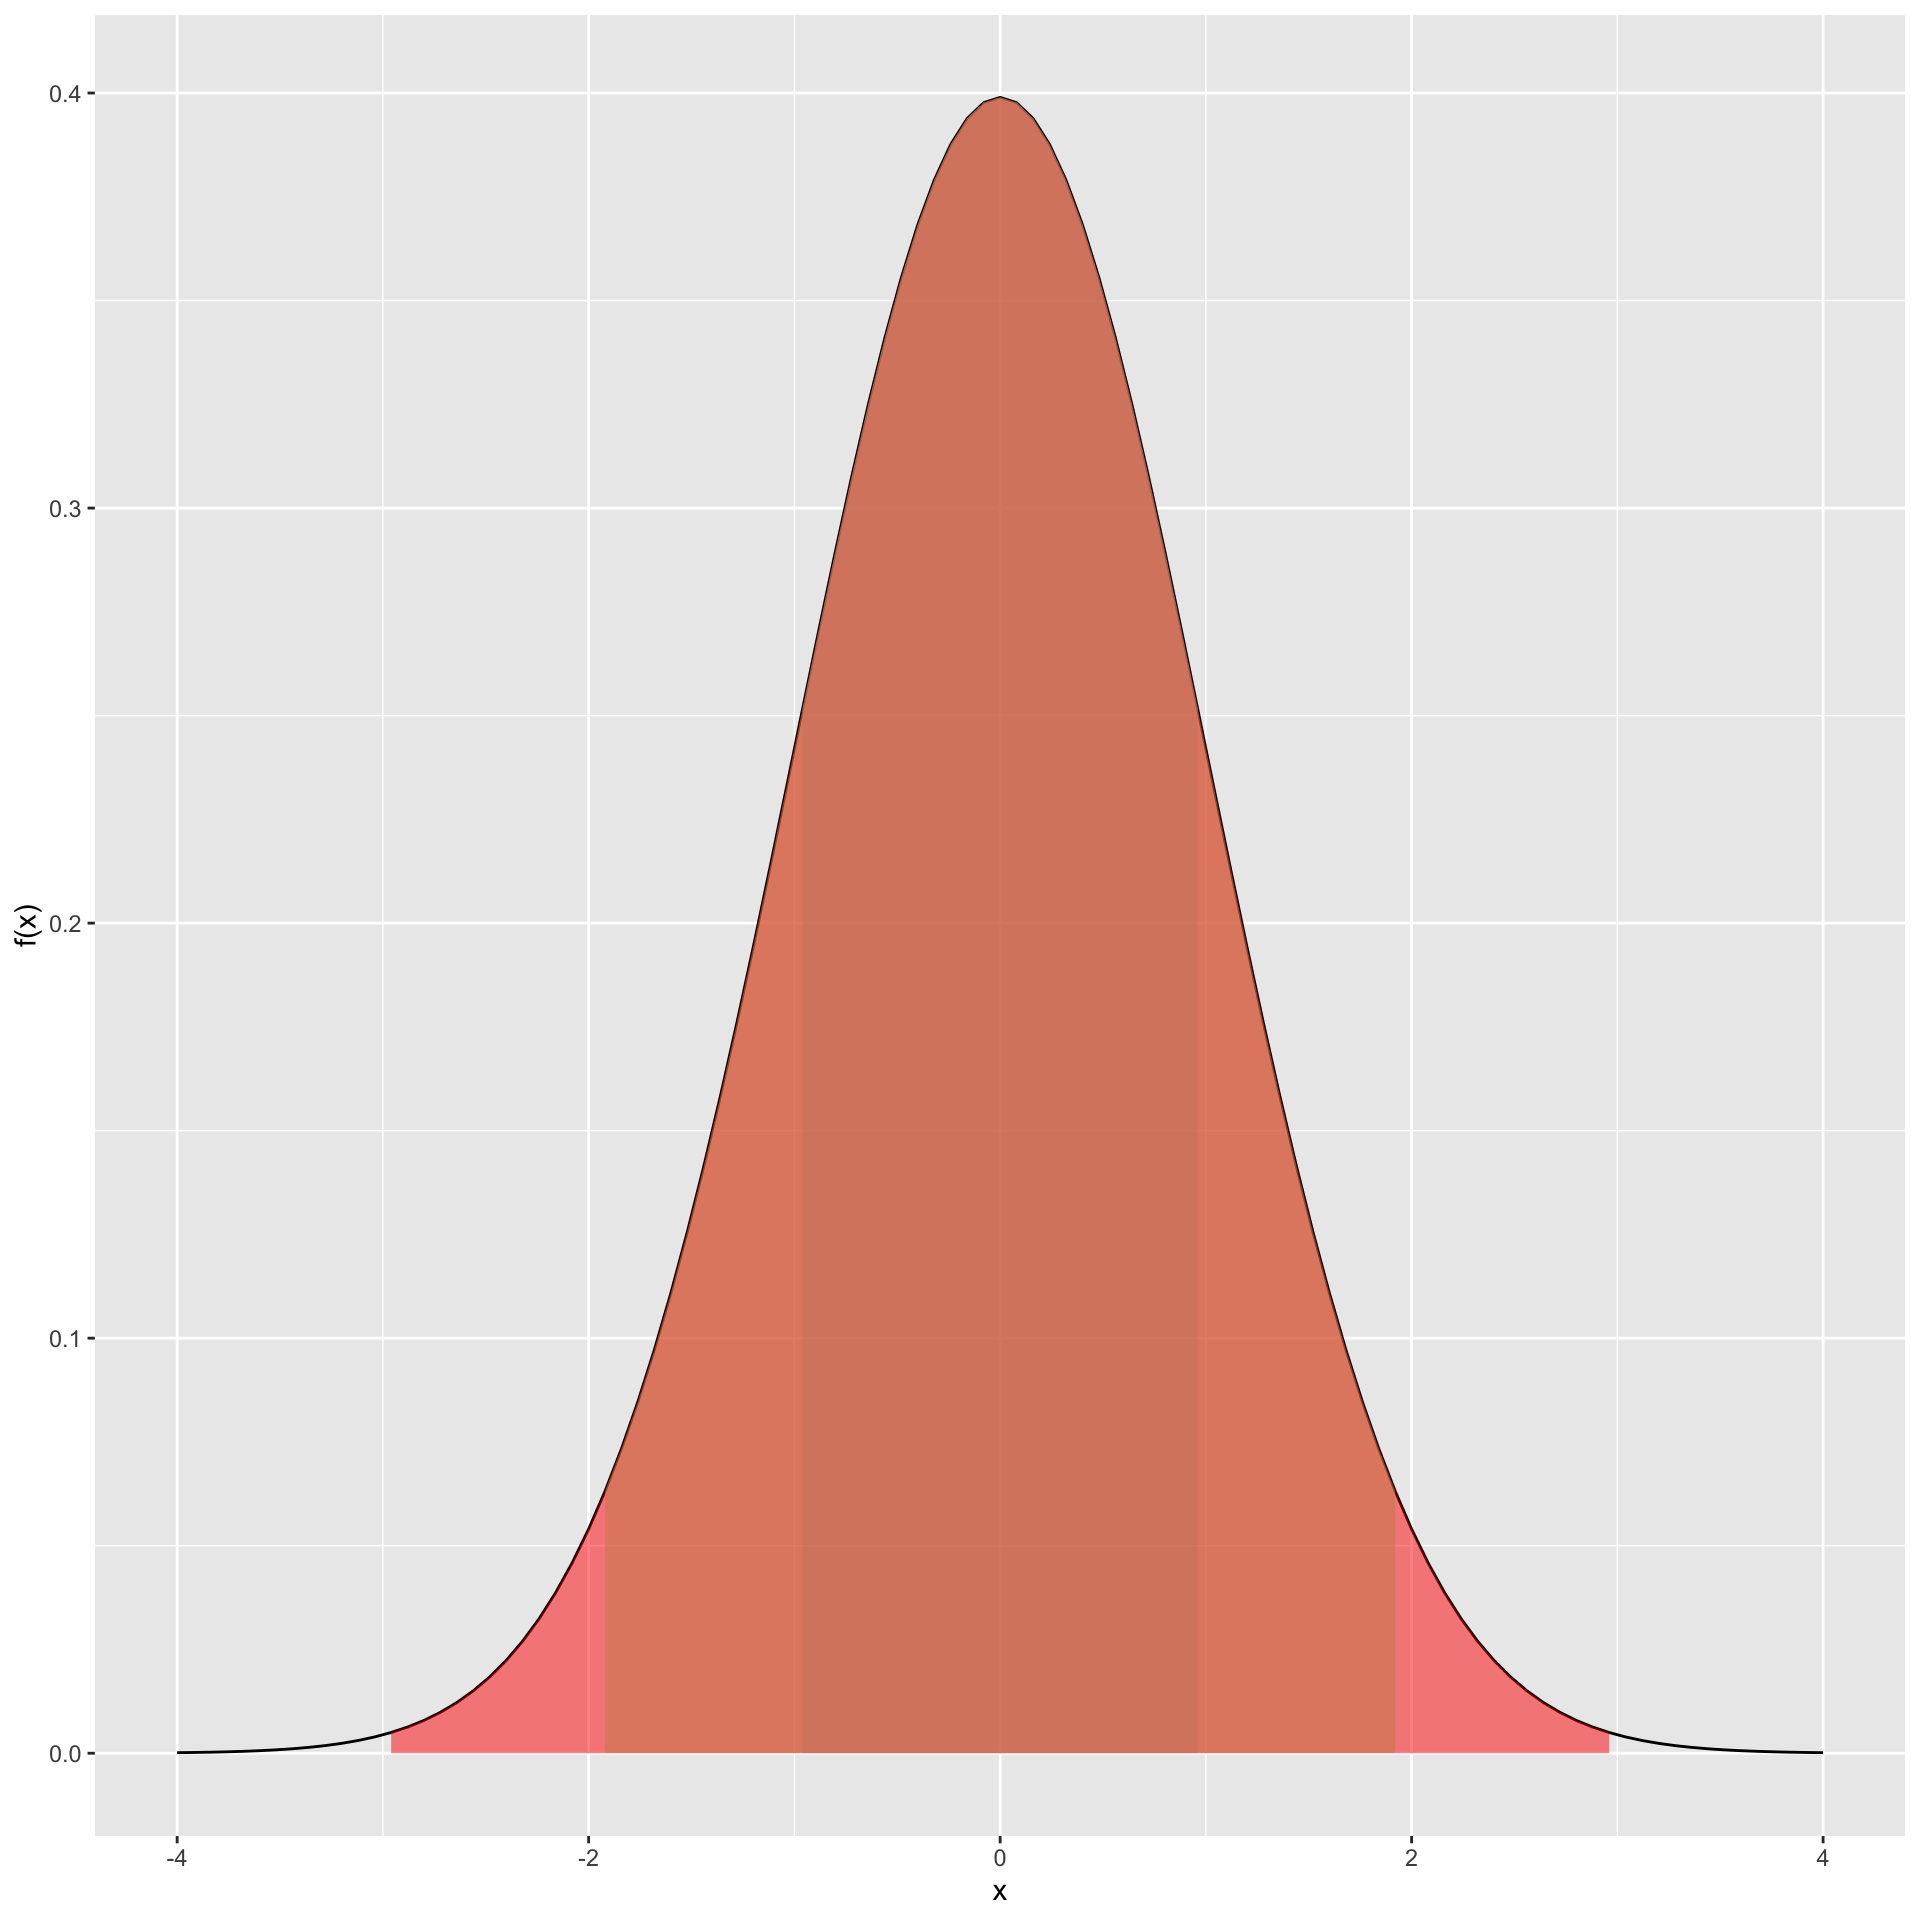
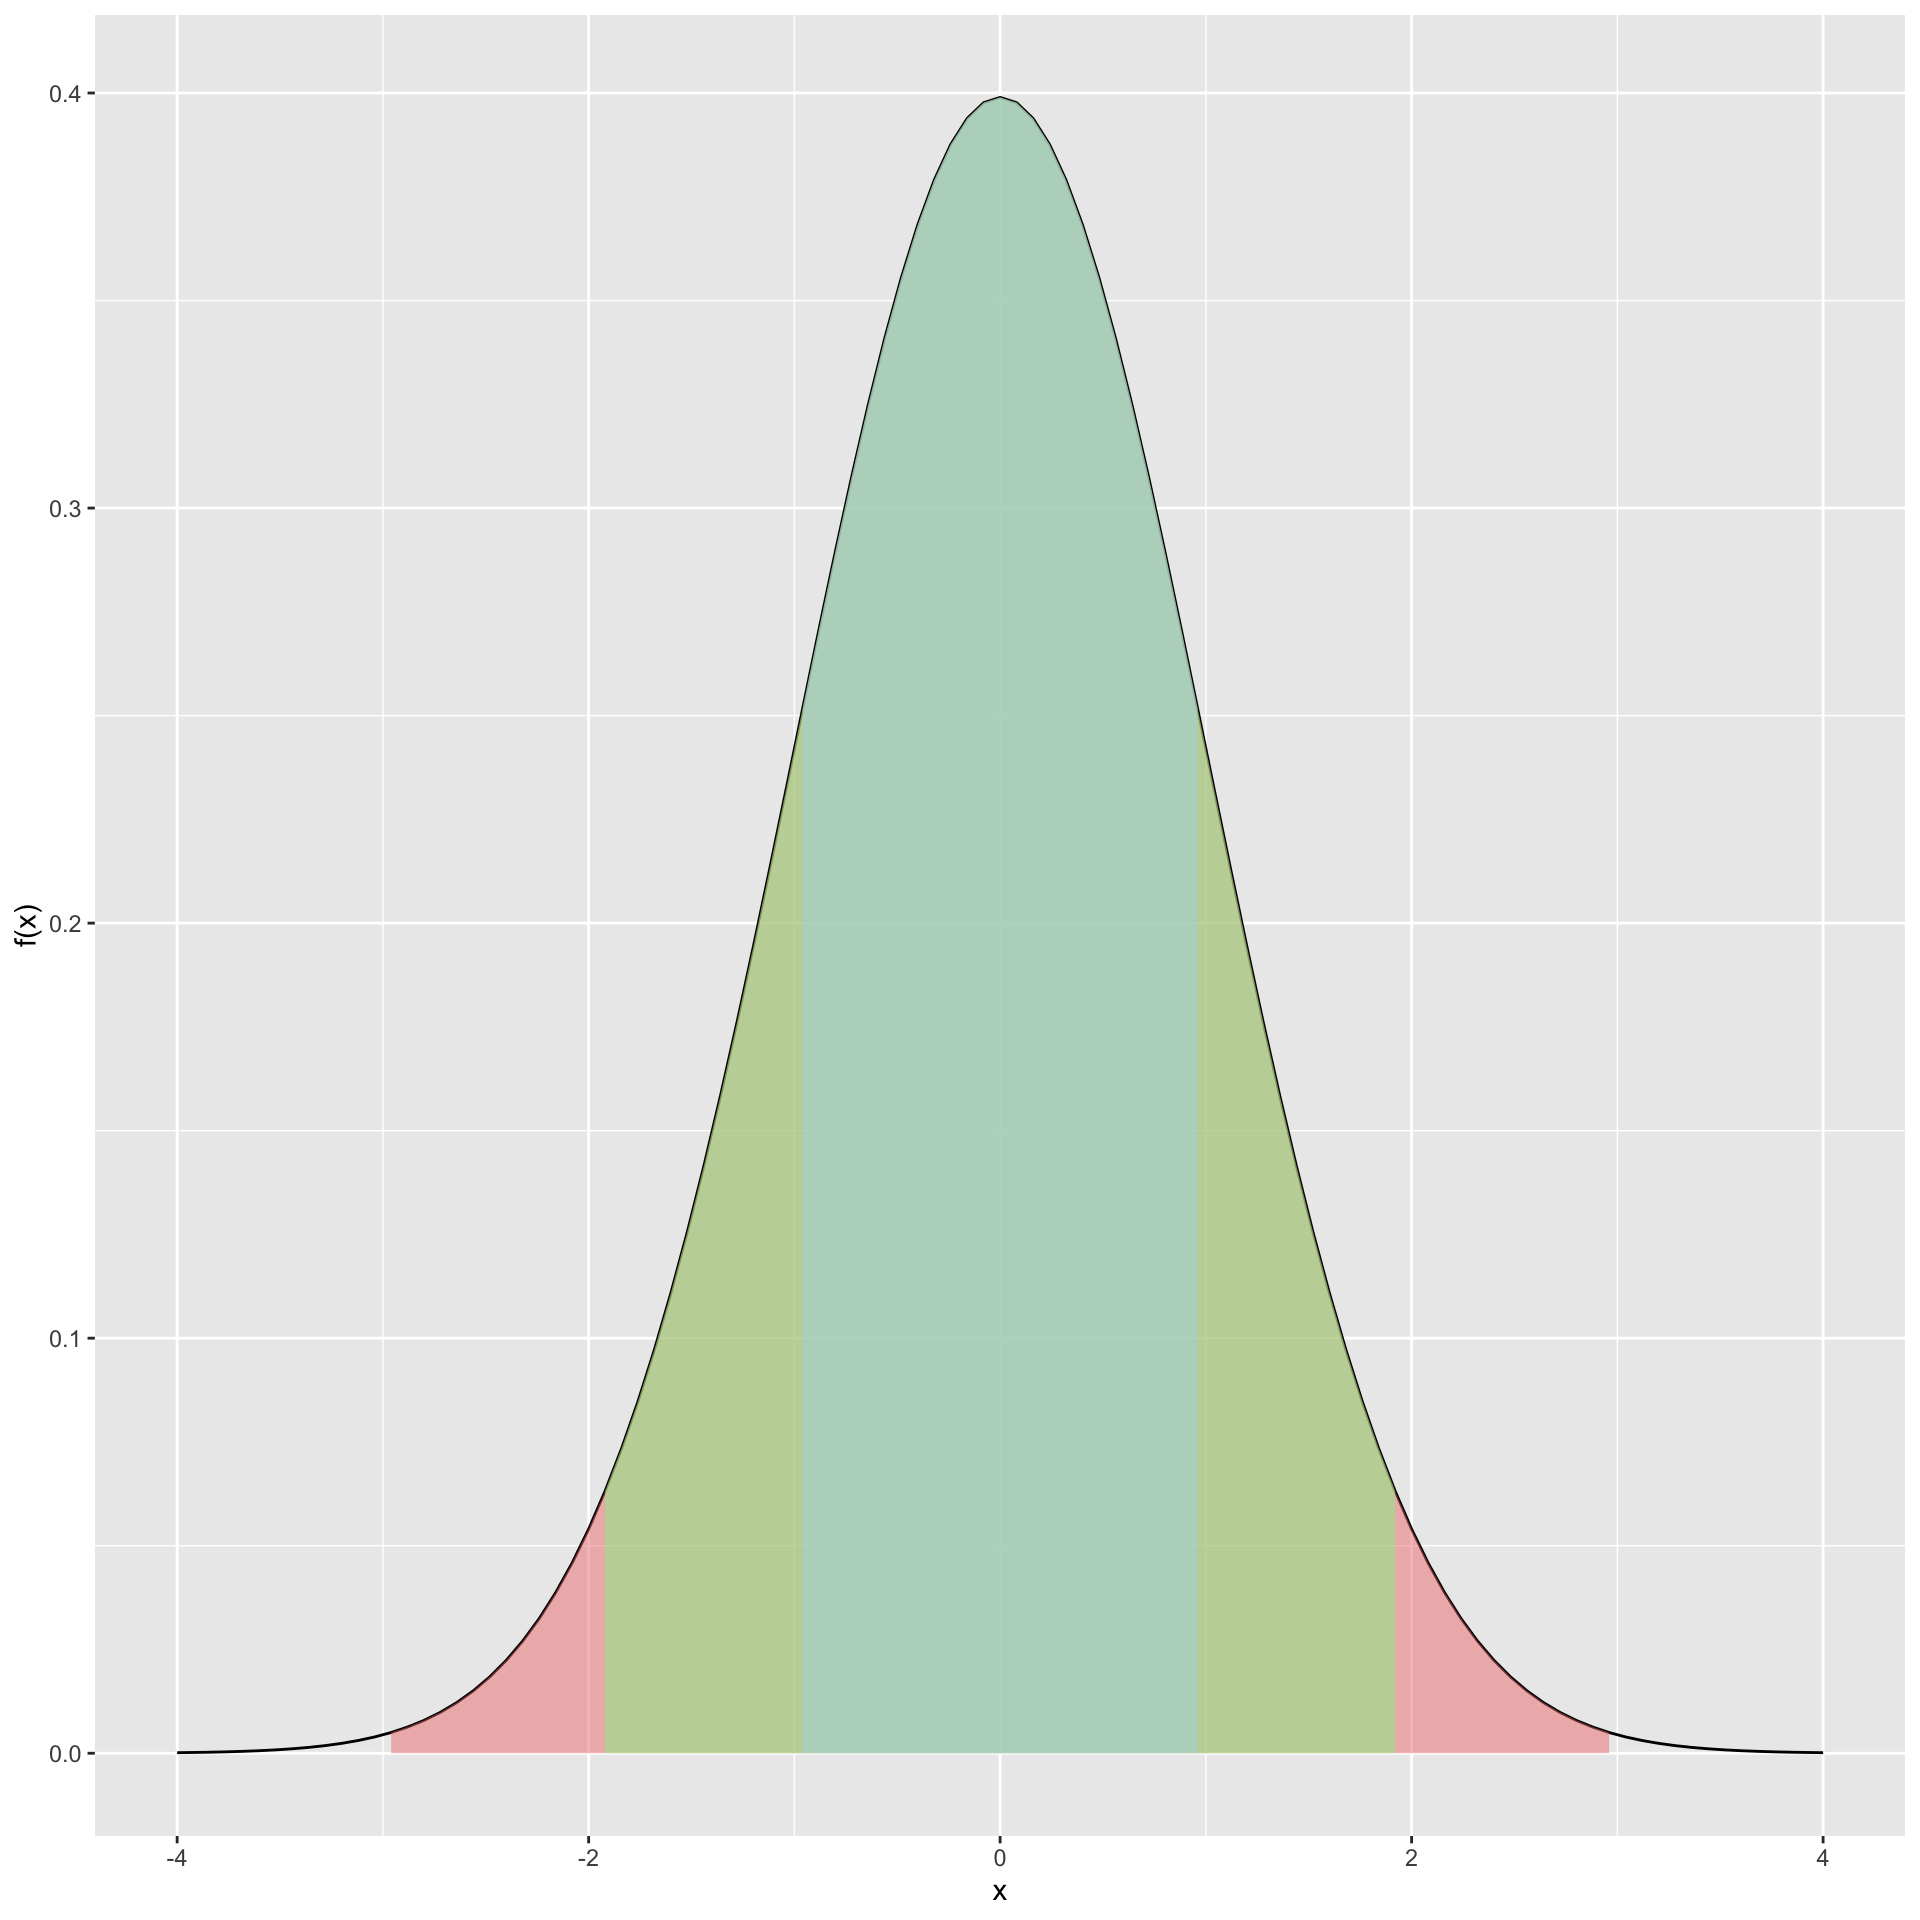
update

Changed region(s): [[0.1875, 0.0312, 0.8438, 0.9375]]

diff --git a/_stat211/chapter3normal.html b/_stat211/chapter3normal.html
@@ -226,6 +226,7 @@
 <li><a href="#/transforming-normals-inches-to-cm" id="/toc-transforming-normals-inches-to-cm">Transforming Normals: inches to cm</a></li>
 <li><a href="#/the-standard-normal-distribution" id="/toc-the-standard-normal-distribution">The Standard Normal Distribution</a></li>
 <li><a href="#/z-scores-comparing-values" id="/toc-z-scores-comparing-values">Z-scores: Comparing values</a></li>
+<li><a href="#/empirical-rule" id="/toc-empirical-rule">Empirical rule</a></li>
 <li><a href="#/well-be-back" id="/toc-well-be-back">We’ll be back…</a></li>
 </ul>
 <div class="quarto-alternate-formats"><h2>Other Formats</h2><ul><li><a href="chapter3normal.html"><i class="bi bi-file-slides"></i>RevealJS</a></li></ul></div></nav>
@@ -572,9 +573,12 @@ $P(Z \leq 1.3333)$ is ..
 <h2>Z-scores: Comparing values</h2>
 <p>Sometimes we will be tasked with comparing values from two different distributions</p>
 <p><span class="smallCap">Goal:</span> Which value is more <span class="emphasis">extreme</span>?</p>
-<p><span class="example">Example:</span> ## Empirical rule {.scrollable}</p>
+<p><span class="example">Example:</span></p>
+</section>
+<section id="empirical-rule" class="slide level2 scrollable">
+<h2>Empirical rule</h2>
 <p>Values from normal distributions contain predictable amounts of probability</p>
-<p><span class="subscript">(This is sometimes known as the <span class="definition">empirical rule</span>)</span></p>
+<p><span class="subscript">(This is sometimes known as the</span><span class="definition">empirical rule</span>)</p>
 <div class="columns">
 <div class="column" style="width:50%;">
 <div class="cell">
@@ -588,8 +592,8 @@ $P(Z \leq 1.3333)$ is ..
 </div>
 <ul>
 <li><span class="lightbluetext"><span class="math inline">\(P( |X - \mu| \leq \sigma) = 0.683\)</span></span></li>
-<li><span class="math inline">\(P( |X - \mu| \leq 2\sigma) = 0.954\)</span></li>
-<li><span class="math inline">\(P( |X - \mu| \leq 3\sigma) = 0.997\)</span></li>
+<li><span class="lightgreentext"><span class="math inline">\(P( |X - \mu| \leq 2\sigma) = 0.954\)</span></span></li>
+<li><span class="lightredtext"><span class="math inline">\(P( |X - \mu| \leq 3\sigma) = 0.997\)</span></span></li>
 </ul>
 </div><div class="column" style="width:10%;">
 <!-- empty column to create gap -->
